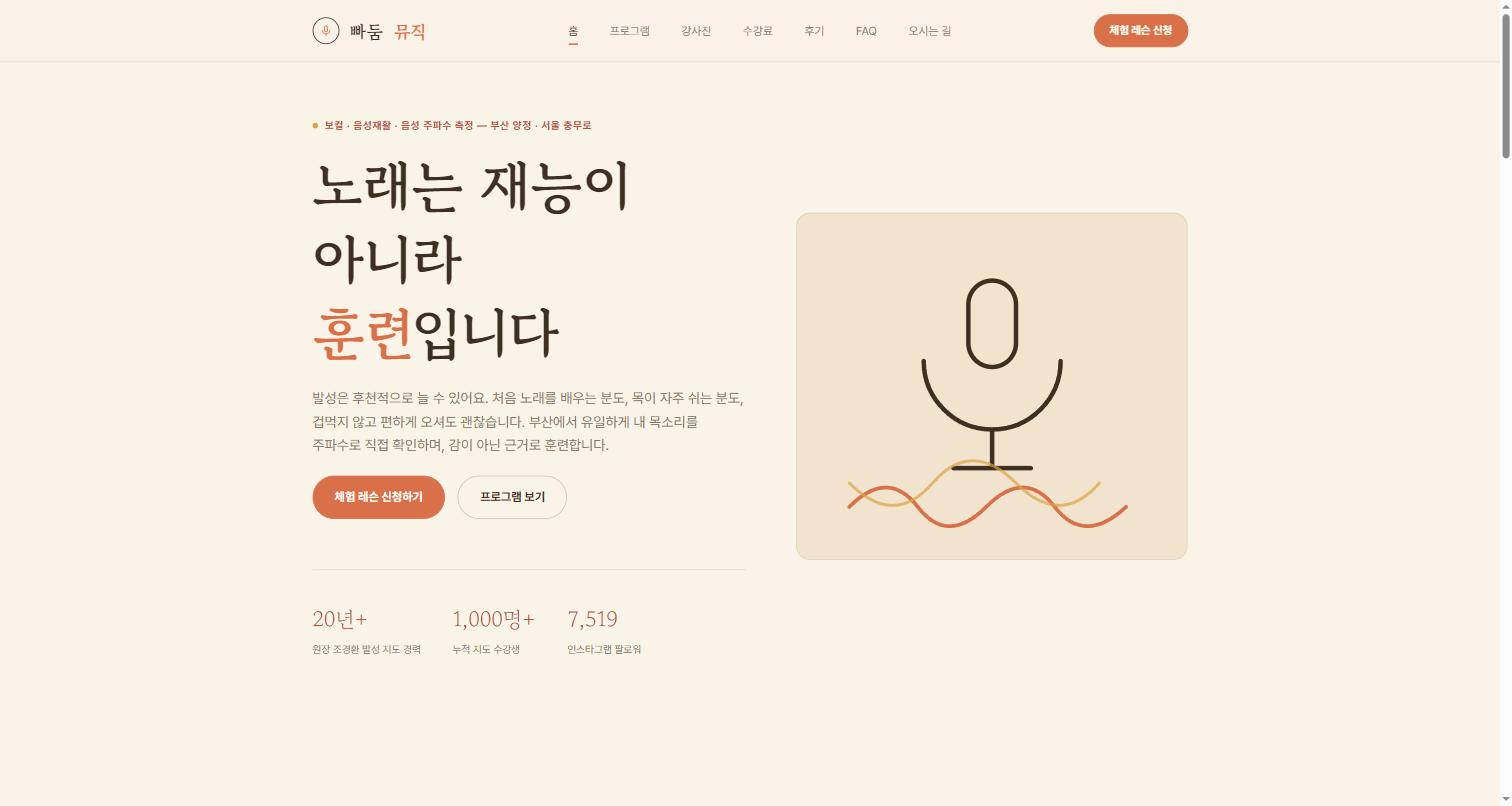
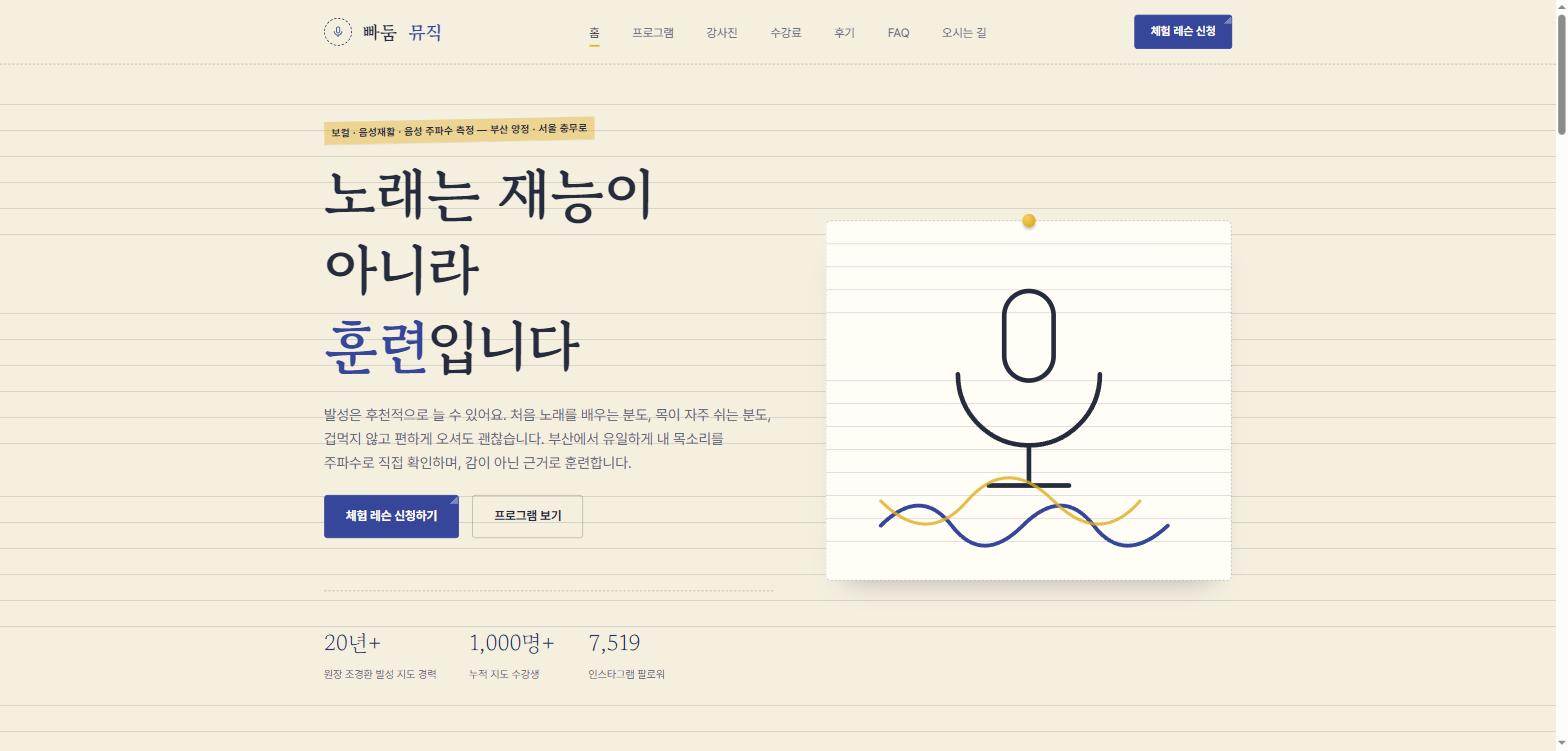
포트폴리오 썸네일을 재설계된 라이브 사이트로 갱신
빠둠뮤직·피티홀릭짐이 오늘 재설계/리빌드되며 기존 스크린샷이
낡아 새로 캡처. 피티홀릭짐은 Next.js 리빌드로 /index.html 라우트가
사라져 404가 떠서 URL도 루트(https://ptholic-1.vercel.app)로 수정.

Claude-Session: https://claude.ai/code/session_01NQ7YvznLNCrRWoBUU5vHbx

diff --git a/portfolio.html b/portfolio.html
@@ -70,15 +70,15 @@
 
       <!-- 카드를 추가하려면 이 블록을 복사해 data-category, data-url, 썸네일, 텍스트만 바꾸면 됩니다. -->
       <div class="portfolio-grid" id="portfolioGrid">
-        <a class="portfolio-card" data-category="gym" data-url="https://ptholic-1.vercel.app/index.html" href="https://ptholic-1.vercel.app/index.html" target="_blank" rel="noopener">
+        <a class="portfolio-card" data-category="gym" data-url="https://ptholic-1.vercel.app" href="https://ptholic-1.vercel.app" target="_blank" rel="noopener">
           <div class="portfolio-thumb">
-            <img src="assets/portfolio/ptholic-thumb.png" alt="피티홀릭짐 웹사이트 스크린샷" loading="lazy" width="800" height="453">
+            <img src="assets/portfolio/ptholic-thumb.jpg" alt="피티홀릭짐 웹사이트 스크린샷" loading="lazy" width="800" height="453">
             <span class="portfolio-overlay">사이트 방문하기 →</span>
           </div>
           <div class="portfolio-meta">
             <span class="log-tag log-tag--info">헬스장</span>
             <h3>피티홀릭짐</h3>
-            <p>수원 율전동 PT 전문 헬스장 · 예약완벽연동형 패키지로 제작, 실제 배포되어 운영 중입니다.</p>
+            <p>수원 율전동 PT 전문 헬스장 · Next.js 기반으로 전면 리빌드, 실제 배포되어 운영 중입니다.</p>
           </div>
         </a>
 
